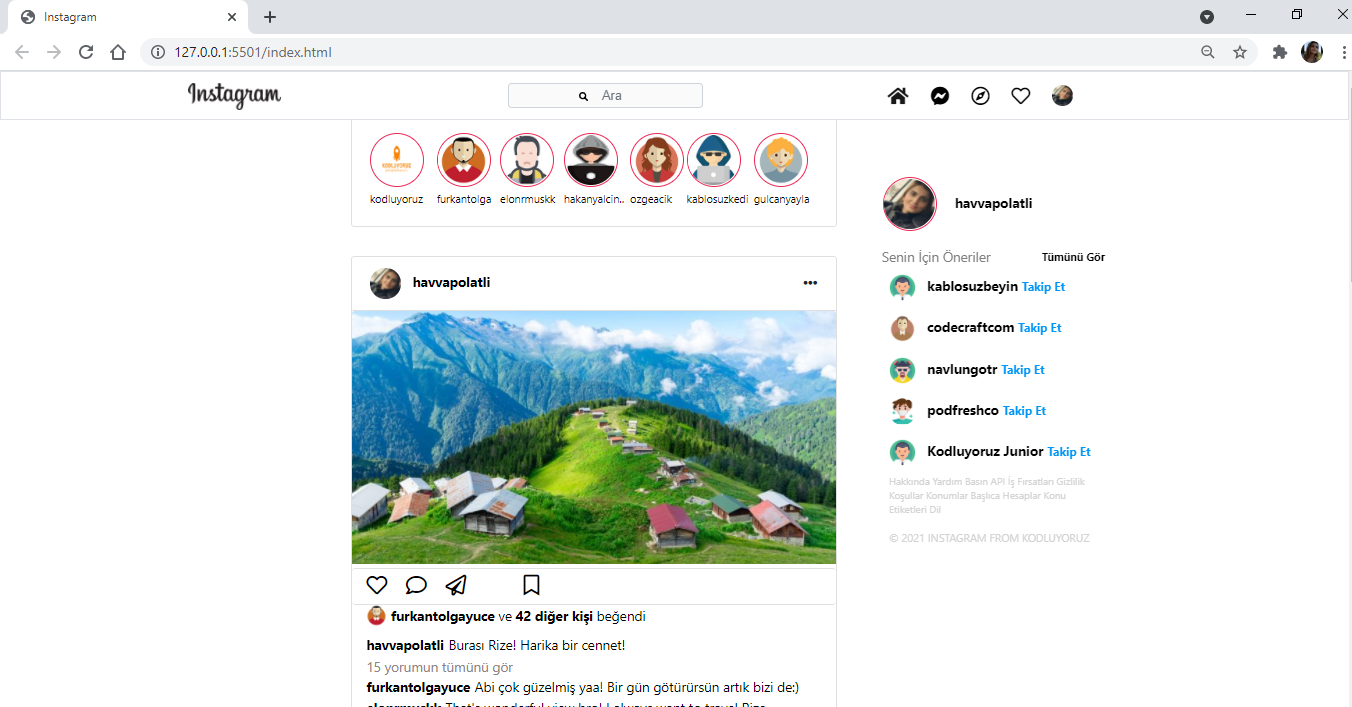
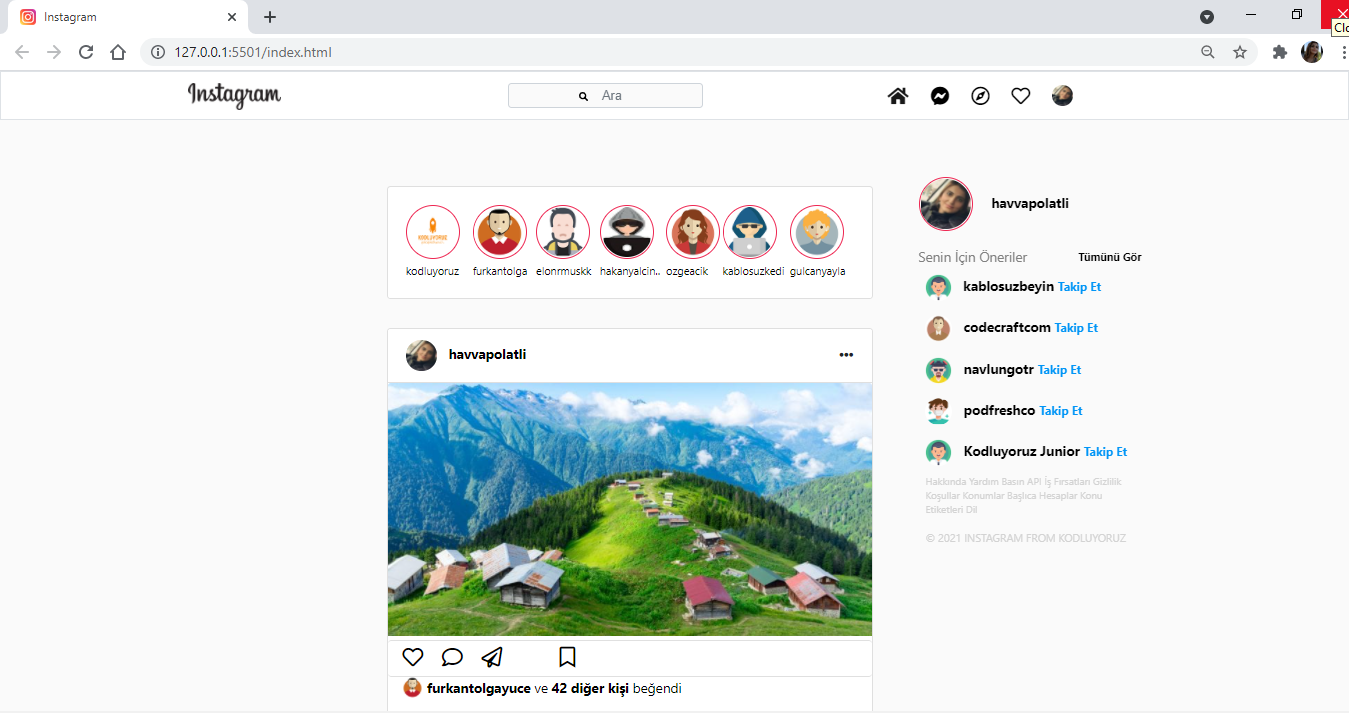
changes

diff --git a/index.html b/index.html
@@ -17,8 +17,9 @@
     />
     <link rel="stylesheet" href="css/style.css" />
     <title>Instagram</title>
+    <link rel = "icon" type = "image/png" href = "/assets/instagram.png">
   </head>
-  <body>
+  <body style="padding: 5rem; background-color: #fafafa;">
     <nav
       class="navbar navbar-expand-sm navbar-light border fixed-top instanavbar mb-5 "
     >

diff --git a/README.md b/README.md
@@ -1,16 +1,20 @@
 # Patika Dev 
  [Kodluyoruz](https://www.kodluyoruz.org/) Front-End Egitimi Bootstrap Odev2
+ 
+### InstagramClone
 
-## 
+
+
+#
 ![post1](assets/syf1.png)
 
 
-### 
-![post2](assets/syf2.png)
+#
+![post2](assets/iki.png)
 
 
-### 
-![post3](assets/syf3.png)
+#
+![post3](assets/uc.png)
 
 ### License
 
